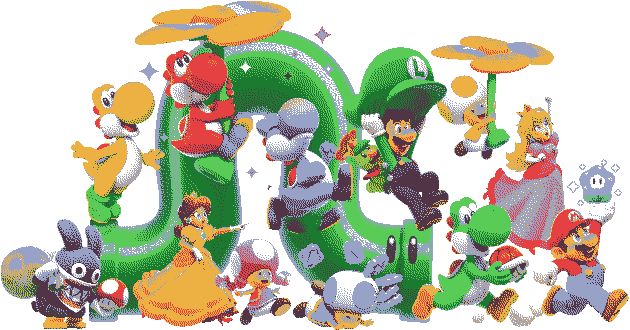
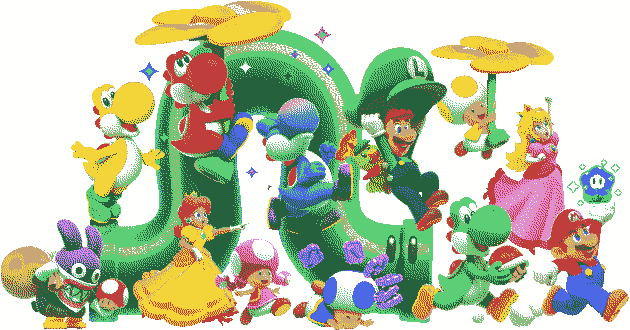
ADD normalization

diff --git a/20874_Algorithms_for_Optimization_and_Inference/HW01/problem_1/kmeans.py b/20874_Algorithms_for_Optimization_and_Inference/HW01/problem_1/kmeans.py
@@ -1,7 +1,7 @@
 import numpy as np
 
 class KMeans:
-    def __init__(self, n_clusters=None, init='random', n_init=10, tol = 1e-4):
+    def __init__(self, n_clusters=None, init='random', n_init=10, tol = 1e-4, normalize=False):
 
         if n_clusters is None:
             raise ValueError('Number of clusters must be specified.')
@@ -10,6 +10,7 @@ class KMeans:
         self.n_init = 1 if init == 'frequency' else n_init
         self.init = init
         self.tol = tol
+        self.normalize = normalize
 
     def fit(self, X, max_iters=300):
         """
@@ -22,16 +23,29 @@ class KMeans:
                 Maximum number of iterations for one run of Lloyd's algorithm.
 
         """
+        
+        if self.normalize:
+            self.std = X.std(axis=0)
+            self.mean = X.mean(axis=0)
+            X = (X - self.mean) / self.std
+
         best_obj = np.inf
+
         for _ in range(self.n_init):
             
             centroids, new_obj = self.lloyd(X, max_iters=max_iters)
+            
             print(f'Iteration: {_+1:03} | Objective: {new_obj:,.2f}')
+            
             if new_obj < best_obj:
                 best_obj = new_obj
                 best_centroids = centroids
                 print('New best objective:', best_obj)
         
+        if self.normalize:
+            best_centroids = best_centroids * self.std + self.mean
+            X = X * self.std + self.mean
+
         self.centroids = best_centroids
         self.obj = best_obj
         self.labels = self.predict(X)
@@ -56,7 +70,7 @@ class KMeans:
             sorted_indices = np.argsort(counts)[::-1]
             centroids = points[sorted_indices[:self.n_clusters]]
         
-        elif self.init == 'frequency + noise':
+        elif self.init == 'frequency+':
             points, counts = np.unique(X, axis=0, return_counts=True)
             sorted_indices = np.argsort(counts)[::-1]
             centroids = points[sorted_indices[:self.n_clusters]]
@@ -65,7 +79,8 @@ class KMeans:
         iter = 0
         while iter < max_iters:
 
-            labels = np.argmin(np.linalg.norm(X[:, None] - centroids, axis=2), axis=1)
+            distances = np.linalg.norm(X[:, None] - centroids, axis=2)
+            labels = np.argmin(distances, axis=1)
             
             new_centroids = np.array([X[labels == i].mean(axis=0) if np.any(labels == i) else centroids[i] for i in range(self.n_clusters)])
             
@@ -73,10 +88,11 @@ class KMeans:
                 centroids = new_centroids
                 print(f'Converged in {iter} iterations.')
                 break
+            
             centroids = new_centroids
             iter += 1
 
-        return centroids, np.min(np.linalg.norm(X[:, None] - centroids, axis=2), axis=1).sum()
+        return centroids, np.min(distances, axis=1).sum()
         
     
     def predict(self, X):

diff --git a/20874_Algorithms_for_Optimization_and_Inference/HW01/problem_1/recolor.py b/20874_Algorithms_for_Optimization_and_Inference/HW01/problem_1/recolor.py
@@ -48,7 +48,11 @@ if k > n_colors:
 # -------------------------------------- #
 
 print(f'Clustering data...')
-kmeans = KMeans(n_clusters=k, init='random', n_init=10)   # Adjust 'n_clusters' as needed
+kmeans = KMeans(n_clusters=k,
+                init='random',
+                n_init=10,
+                normalize=True
+                )   # Adjust 'n_clusters' as needed
 kmeans.fit(X)
 
 # -------------------------------------- #
